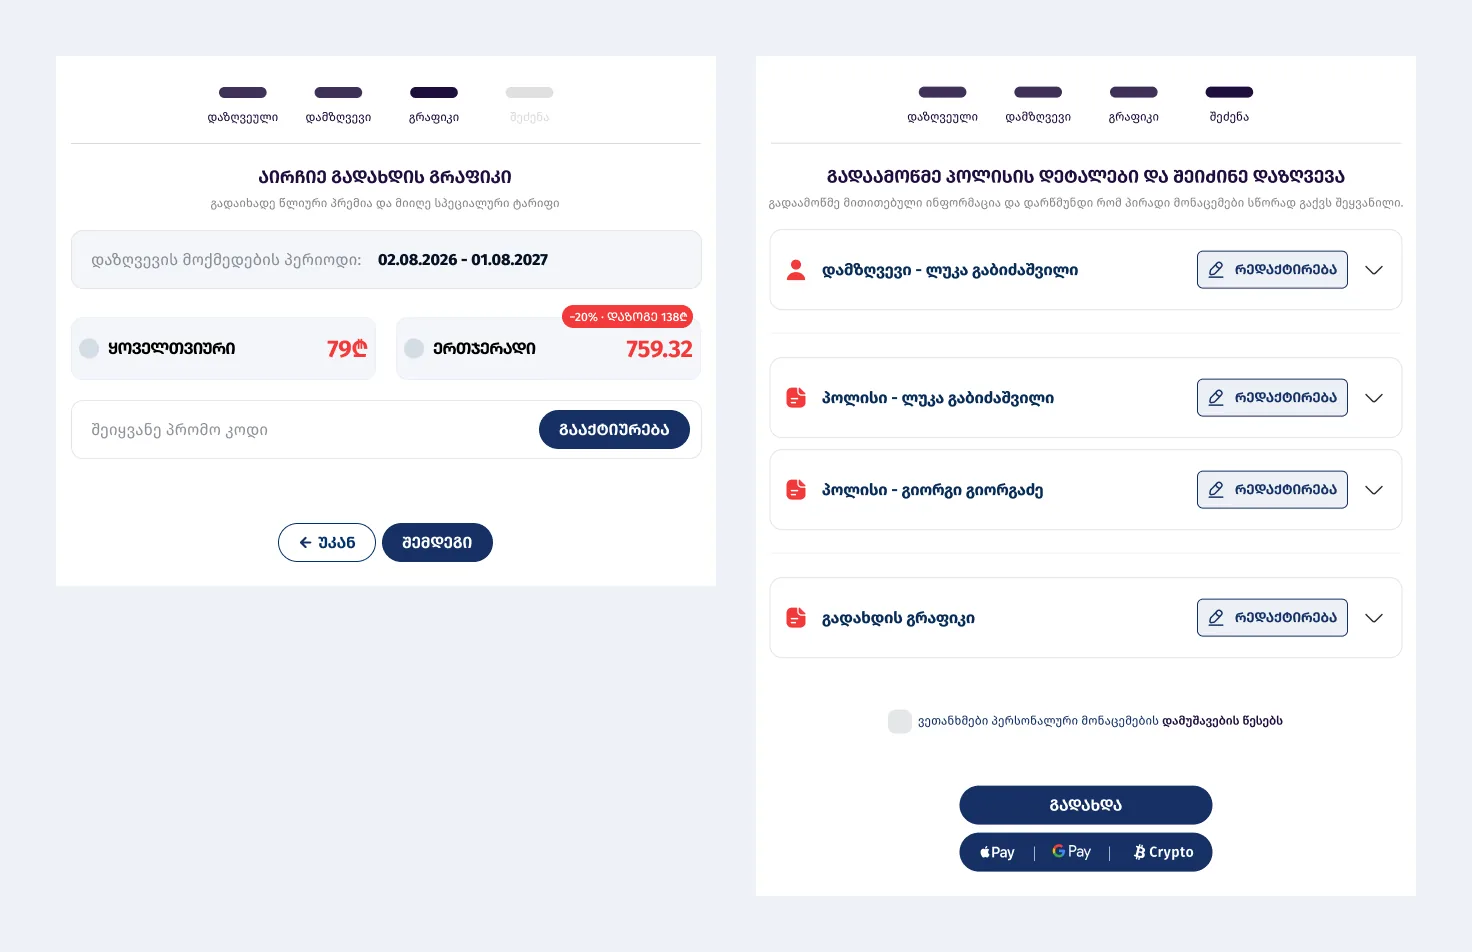
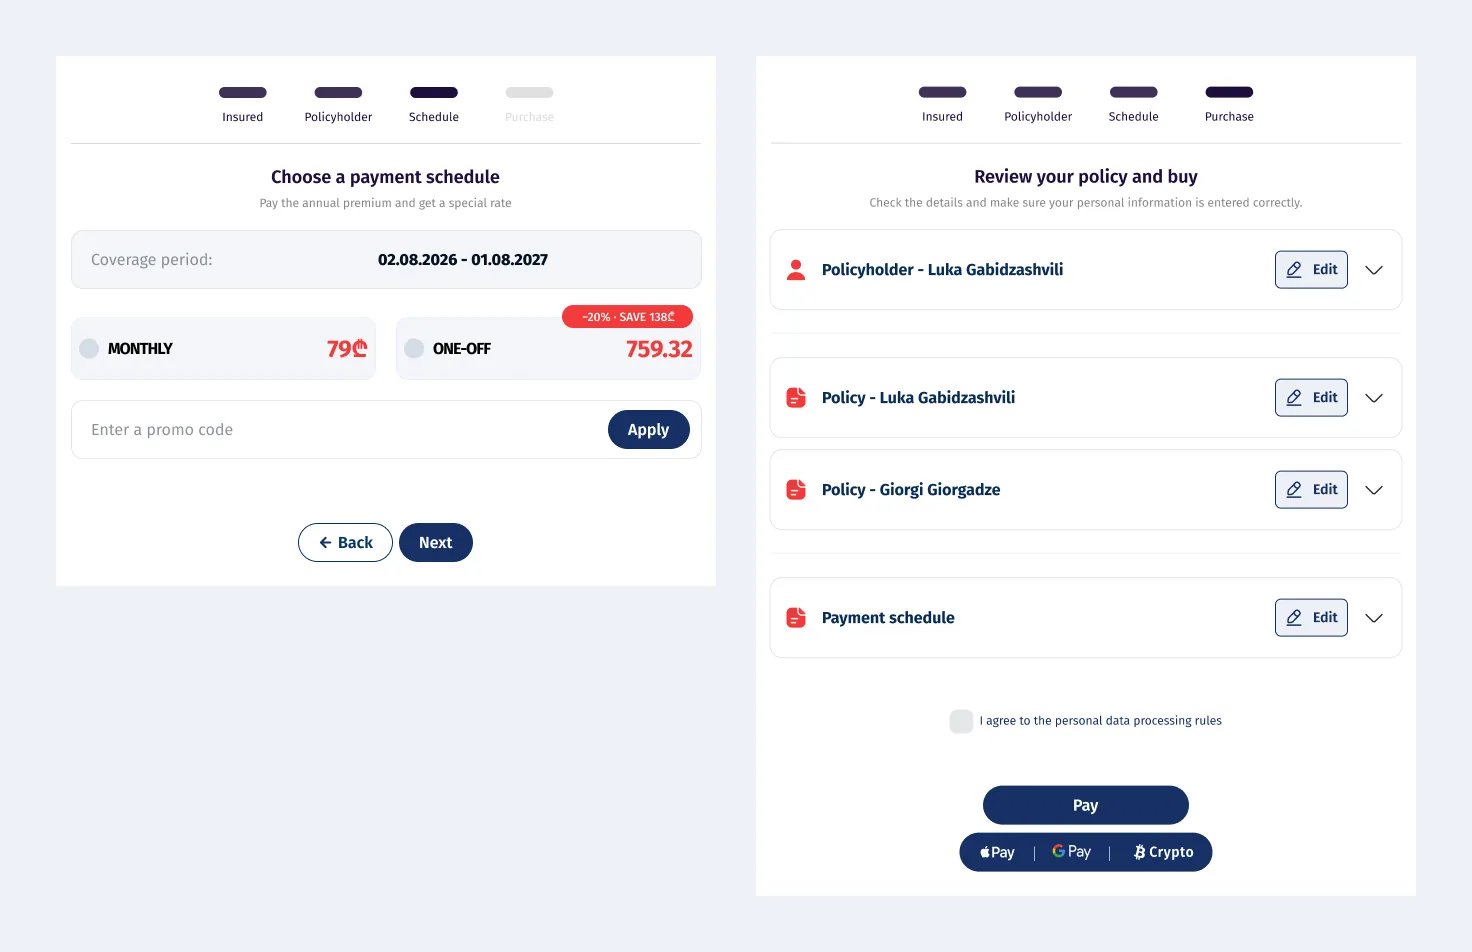
UNO Select case: English screenshots and English live link
Claude-Session: https://claude.ai/code/session_01JPU5s7RMjLgHNEeETF2Buv

diff --git a/index.html b/index.html
@@ -406,7 +406,7 @@ em.lv { font-style: normal; color: #FF3B30; }
     <span class="mono">Insurance · Imedi L · Shipped</span>
     <h1>UNO Select: health insurance you can buy in four steps</h1>
     <p class="lead">Individual health insurance from Imedi L with a free choice of clinics. I designed the product page and the online purchase flow: pick a plan per person, add family members, choose how to pay and check out, on desktop and mobile.</p>
-    <a class="live" href="https://www.imedil.ge/uno-select/ge" target="_blank" rel="noopener"><i></i>See it live on imedil.ge ↗</a>
+    <a class="live" href="https://www.imedil.ge/uno-select/en" target="_blank" rel="noopener"><i></i>See it live on imedil.ge ↗</a>
   </div>
   <figure class="case-hero"><img src="img/uno-cover.webp" alt="UNO Select product page: hero, plan comparison and pricing cards"></figure>
   <div class="facts">
@@ -445,7 +445,7 @@ em.lv { font-style: normal; color: #FF3B30; }
 
   <div class="block"><h3>What shipped</h3><div class="body">
     <p><strong>A live product page</strong> on imedil.ge that a customer can understand without a call. <strong>A purchase flow mapped end to end,</strong> with every route, error and outcome specified for developers. <strong>Shared components</strong> (plan card, insured card, stepper, info panel) ready for Imedi L's other products.</p>
-    <p><a class="live" href="https://www.imedil.ge/uno-select/ge" target="_blank" rel="noopener"><i></i>Open the live page ↗</a></p>
+    <p><a class="live" href="https://www.imedil.ge/uno-select/en" target="_blank" rel="noopener"><i></i>Open the live page ↗</a></p>
   </div></div>
   <a class="next" href="#openfinance"><div><span class="mono">Next project</span><br><b>OpenFinance Hub</b></div><span class="arrow" aria-hidden="true">→</span></a>
 </div>
